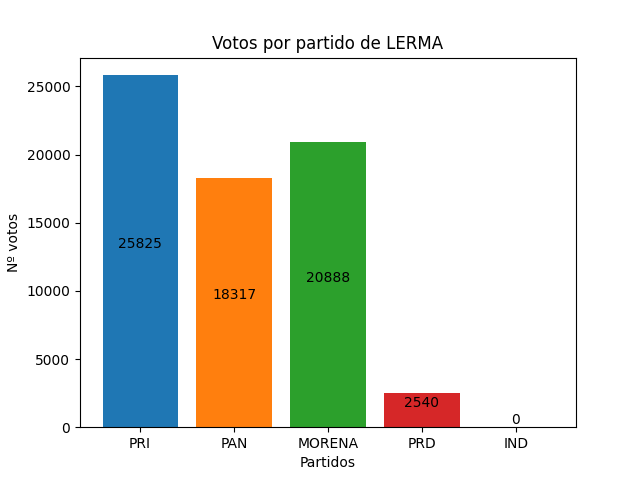
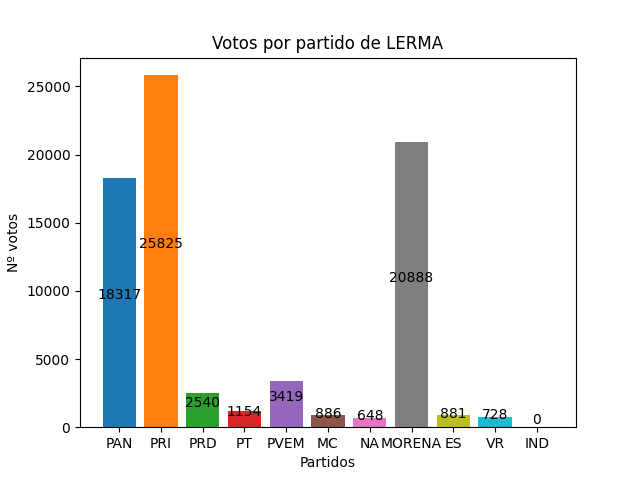
feat: :sparkles: buscador
actualizacion del buscador, busqueda por id, nombre estado individual

Changed region(s): [[0.1562, 0.1562, 0.875, 0.9375]]

diff --git a/static/js/index.js b/static/js/index.js
@@ -86,7 +86,7 @@ let mostrarocultar = function(){
 
 boton_buscador.addEventListener("click", (e)=>{
     e.preventDefault();
-    let datos = buscador.value;
+    let datos = buscador.value.toUpperCase();
     let datos_analizados = "";
     let lista = [];
     let datasets = [];
@@ -94,14 +94,12 @@ boton_buscador.addEventListener("click", (e)=>{
     let json = {};
     let graficas = {};
 
-    if(datos.indexOf(",")> -1){
+    if(datos.indexOf(",") != -1){
         tipo = VARIOS;
-    } else if(datos.indexOf("-")> -1){
+    } else if(datos.indexOf("-") != -1){
         tipo = RANGO;
-    } else{
-        tipo = NOMBRE;
-    }
-
+    } else tipo = NOMBRE;
+    
     switch(tipo){
         case VARIOS:
             datos_analizados = datos.split(",");
@@ -120,27 +118,26 @@ boton_buscador.addEventListener("click", (e)=>{
                 for(let i = 0 ;i<datos_analizados.length;i++){
                     lista.push(Object.keys(data_s.datos[`m_${i}`]));
                 }
-                
+        
                 let aux = 0;
                 let votos_suma = [];
+
                 while(lista.length > aux){
                     votos_suma.push([]);
                     for(let i = 0;i<PARTIDOS.length;i++){
-                        let label =  PARTIDOS[i];
+                        // let label =  PARTIDOS[i];
                         let votos = data_s.datos[`m_${aux}`][lista[aux]][PARTIDOS[i]];
                         let data = (votos.reduce((total, num)=>total+num,0));
-                        let background =  COLORES[i];
+                        // let background =  COLORES[i];
                         votos_suma[aux].push(data)
-
                     }
                     aux++;
                 }
                 console.log(votos_suma);
                 
-
-                for(let i = 0;i<lista.length;i++){
-                    graficas[lista[i]] = {};
-                    for(let j = 0; j < PARTIDOS.length;j++){
+                // for(let i = 0;i<lista.length;i++){
+                //     graficas[lista[i]] = {};
+                //     for(let j = 0; j < PARTIDOS.length;j++){
 
                         // let label =  PARTIDOS[j];
                         // let data = data_s.datos[`m_${i}`][lista[i]][PARTIDOS[j]];
@@ -150,37 +147,47 @@ boton_buscador.addEventListener("click", (e)=>{
                         // console.log(arr)
                         //datasets.push({label, data, background})
 
-                        graficas[lista[i]]["id"] = lista[i];
-                        graficas[lista[i]]["tipo"] = "bar";
-                        graficas[lista[i]]["etiquetas"] = PARTIDOS;
-                        //graficas[lista[i]]["datasets"] = datasets;
-                        graficas[lista[i]]["options"] = {}
-                        graficas[lista[i]]["options"]["title"] = {} 
-                        graficas[lista[i]]["options"]["title"]["display"] = "true";
-                        graficas[lista[i]]["options"]["title"]["text"] = "Nº votos";
-                        graficas[lista[i]]["options"]["title"]["fontSize"] = 18;
+                        // graficas[lista[i]]["id"] = lista[i];
+                        // graficas[lista[i]]["tipo"] = "bar";
+                        // graficas[lista[i]]["etiquetas"] = PARTIDOS;
+                        // //graficas[lista[i]]["datasets"] = datasets;
+                        // graficas[lista[i]]["options"] = {}
+                        // graficas[lista[i]]["options"]["title"] = {} 
+                        // graficas[lista[i]]["options"]["title"]["display"] = "true";
+                        // graficas[lista[i]]["options"]["title"]["text"] = lista[i];
+                        // graficas[lista[i]]["options"]["title"]["fontSize"] = 28;
                         //console.log(data_s.datos[`m_${i}`][lista[i]][PARTIDOS[j]])
-                    }
-                }
+                //     }
+                // }
                 console.log(datasets)
                 let fragmento = document.createDocumentFragment();
                 for(let i = 0; i < lista.length; i++){
                     let canvas = document.createElement("canvas");
                     canvas.setAttribute("class", `grafica${i}`);
+                    
                     let contexto = canvas.getContext("2d");
                     let char = new Chart(contexto, {
-                        type: graficas[lista[i]]["tipo"],
+                        type: "bar",
                         data: {
                           labels: PARTIDOS,
                           datasets: [
                               {
+                                label:lista[i],
                                 data: votos_suma[i],
                                 backgroundColor:COLORES
                             }
                           ]
                         },
-                        options: graficas[lista[i]]["options"]["title"]
+                        options: {
+                            title:{
+                                display:true,
+                                text:lista[i],
+                                fontSize:28
+                            }
+                        }
                       });
+                    canvas.style.position = "relative";
+                    canvas.style.width="50px";
                     fragmento.appendChild(canvas)
                 }
                 document.querySelector(".graficas").appendChild(fragmento)
@@ -194,8 +201,57 @@ boton_buscador.addEventListener("click", (e)=>{
                 datos: datos_analizados
             }
             enviar_datos(json)
-            .then(data => {
-                console.log(data);
+            .then(data_s => {
+                for(let i = 0 ;i<Object.keys(data_s.datos).length;i++){
+                    lista.push(Object.keys(data_s.datos[`m_${i}`]));
+                }
+                console.log(lista)
+                let aux = 0;
+                let votos_suma = [];
+
+                while(lista.length > aux){
+                    votos_suma.push([]);
+                    for(let i = 0;i<PARTIDOS.length;i++){
+                        // let label =  PARTIDOS[i];
+                        let votos = data_s.datos[`m_${aux}`][lista[aux]][PARTIDOS[i]];
+                        let data = (votos.reduce((total, num)=>total+num,0));
+                        // let background =  COLORES[i];
+                        votos_suma[aux].push(data)
+                    }
+                    aux++;
+                }
+                console.log(votos_suma);
+                let fragmento = document.createDocumentFragment();
+                for(let i = 0; i < lista.length; i++){
+                    let canvas = document.createElement("canvas");
+                    canvas.setAttribute("class", `grafica${i}`);
+                    
+                    let contexto = canvas.getContext("2d");
+                    let char = new Chart(contexto, {
+                        type: "bar",
+                        data: {
+                          labels: PARTIDOS,
+                          datasets: [
+                              {
+                                label:lista[i],
+                                data: votos_suma[i],
+                                backgroundColor:COLORES
+                            }
+                          ]
+                        },
+                        options: {
+                            title:{
+                                display:true,
+                                text:lista[i],
+                                fontSize:28
+                            }
+                        }
+                      });
+                    canvas.style.position = "relative";
+                    canvas.style.width="50px";
+                    fragmento.appendChild(canvas)
+                }
+                document.querySelector(".graficas").appendChild(fragmento);
             });
             break;
         case NOMBRE:
@@ -204,8 +260,47 @@ boton_buscador.addEventListener("click", (e)=>{
                 datos: datos
             }
             enviar_datos(json)
-            .then(data => {
-                console.log(data);
+            .then(data_s => {
+                lista.push(Object.keys(data_s.datos["m_0"]));
+                let votos_suma = [];
+
+                for(let i = 0;i<PARTIDOS.length;i++){
+                        let votos = data_s.datos["m_0"][lista[0]][PARTIDOS[i]];
+                        let data = (votos.reduce((total, num)=>total+num,0));
+                        votos_suma.push(data)
+                }
+                console.log(votos_suma);
+                let fragmento = document.createDocumentFragment();
+                
+                let canvas = document.createElement("canvas");
+                canvas.setAttribute("class", "grafica0");
+                    
+                let contexto = canvas.getContext("2d");
+                let char = new Chart(contexto, {
+                        type: "bar",
+                        data: {
+                          labels: PARTIDOS,
+                          datasets: [
+                              {
+                                label:lista[0],
+                                data: votos_suma,
+                                backgroundColor:COLORES
+                            }
+                          ]
+                        },
+                        options: {
+                            title:{
+                                display:true,
+                                text:lista[0],
+                                fontSize:28
+                            }
+                        }
+                      });
+                    canvas.style.position = "relative";
+                    canvas.style.width="50px";
+                    fragmento.appendChild(canvas)
+                
+                document.querySelector(".graficas").appendChild(fragmento);
             });
             break;
     }
@@ -222,19 +317,4 @@ function enviar_datos(data){
     .then(response =>{
         return response.json()
     });
-}
-
-/**
- * funcion para determinar la longitud de objetos
- */
-
-function longitud(objeto, valor_key){
-    let lista = [];
-    lista.push(Object.keys(objeto[valor_key]).length);
-
-    for (let i = 0; i < lista[0]; i++) {
-        lista.push(Object.keys(objeto[valor_key][i]).length);
-        
-    }
-    return lista;
 }

diff --git a/static/css/index.css b/static/css/index.css
@@ -89,3 +89,9 @@ body {
     color: #000;
     text-align: center;
 }
+
+/* graficas */
+.grafica0{
+    position: relative;
+    width: 50%;
+}

diff --git a/app.py b/app.py
@@ -418,7 +418,7 @@ def crear_grafico(consulta_1, consulta_2):
 @app.route("/consultas-buscador", methods=['POST'])
 def consultas_buscador():
     js = request.get_json()
-    print(js)
+
     lista = []
     arreglo = []
     contador = 1
@@ -469,6 +469,27 @@ def consultas_buscador():
                     diccionario[f"m_{i}"][lista[i][0][0]][PARTIDOS[contador-1]].append(lista[i][j][contador])
                 contador += 1
             contador = 1
+
+    elif(js["tipo"] == "nombre"):
+        if(js["datos"].find("1") != -1):
+            consulta = configuracion.get("consultas_buscador","variosVR").format(dato=js["datos"])
+        else:
+            consulta = configuracion.get("consultas_buscador","nombreM").format(dato=js["datos"])
+        
+        respuesta = conn.consultar_db(consulta)
+        lista.append(respuesta)
+
+        arreglo.append(len(lista[0]))
+        diccionario["m_0"] = {
+            lista[0][0][0]:{}
+        }
+        
+        while(contador <= 11):
+            diccionario["m_0"][lista[0][0][0]][PARTIDOS[contador-1]] = []
+            for j in range(0,arreglo[0]):
+                diccionario["m_0"][lista[0][0][0]][PARTIDOS[contador-1]].append(lista[0][j][contador])
+            contador += 1
+        contador = 1
 
     data = {'datos': diccionario}
     return jsonify(data)
